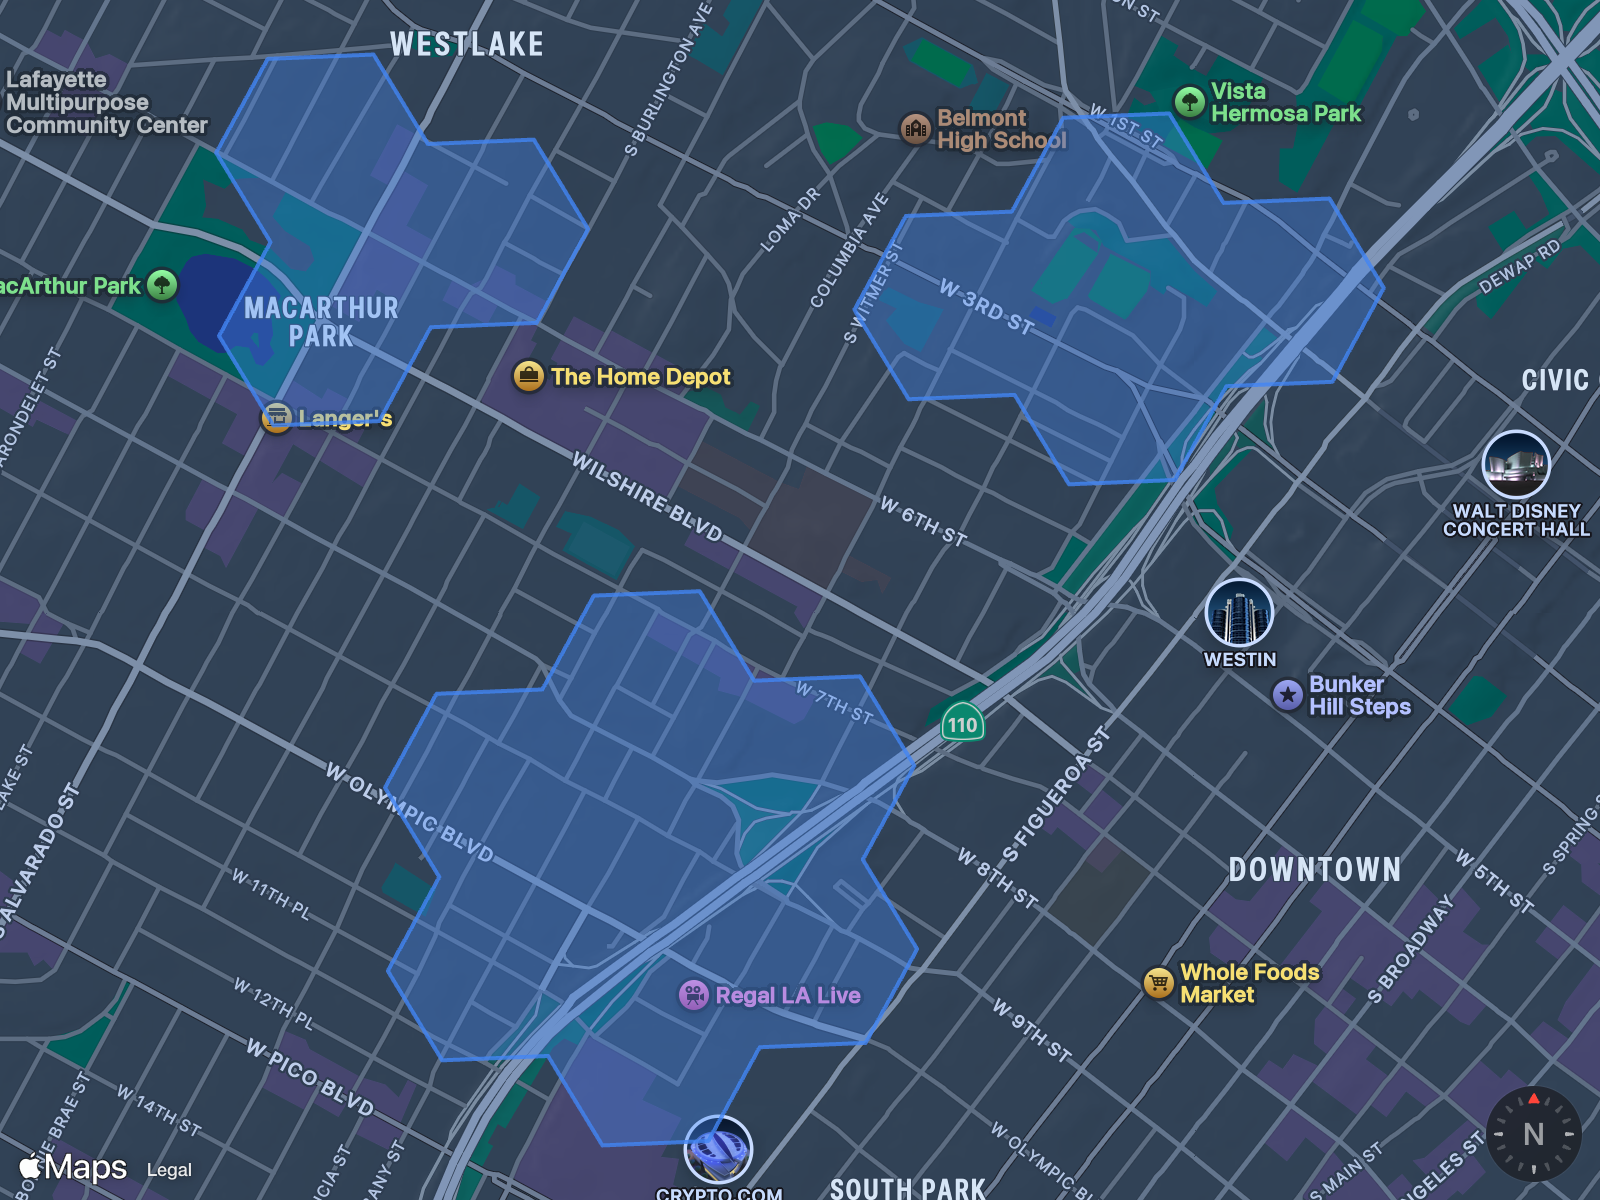
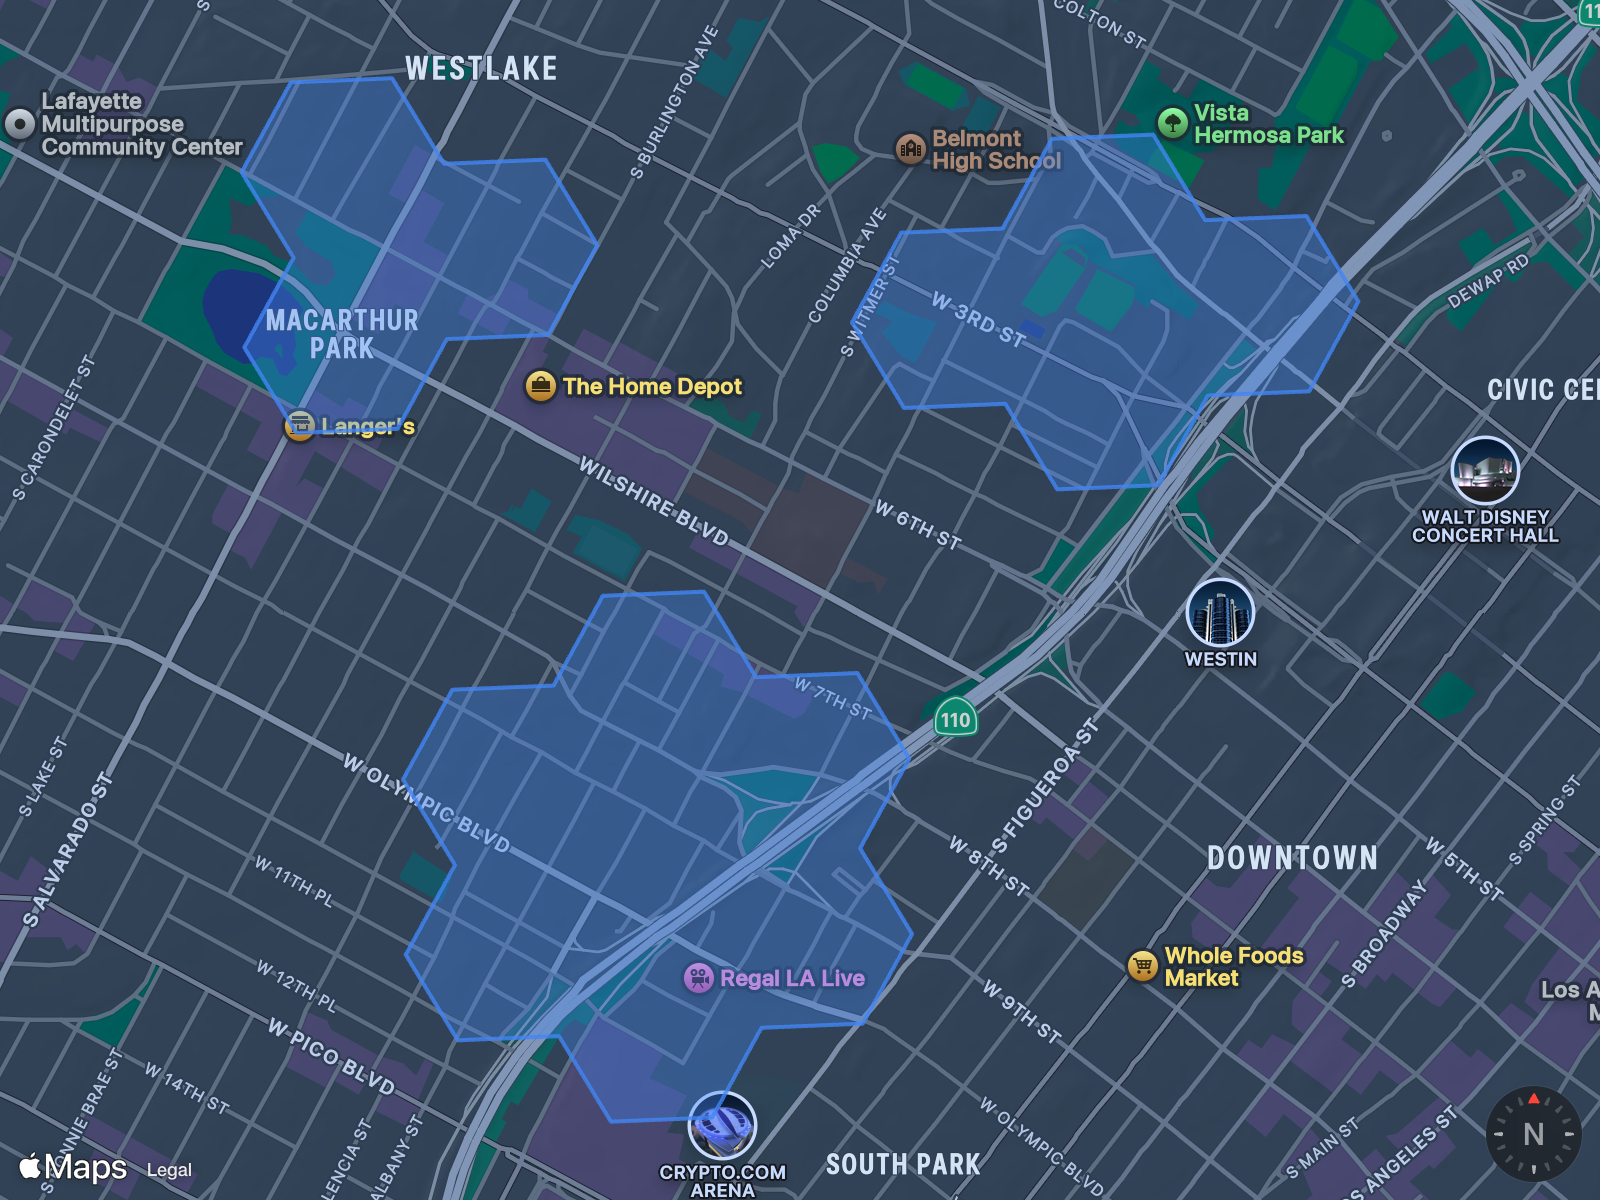
feat: google map dark mode

diff --git a/maps/output/index.html b/maps/output/index.html
@@ -259,7 +259,7 @@
                     <div class="metrics">
                         <div class="metric-row">
                             <span class="metric-label">⏱ Generation Time</span>
-                            <span class="metric-value">1451 ms</span>
+                            <span class="metric-value">1543 ms</span>
                         </div>
                         <div class="metric-row">
                             <span class="metric-label">💾 File Size</span>
@@ -267,7 +267,7 @@
                         </div>
                         <div class="metric-row">
                             <span class="metric-label">🧠 Memory Used</span>
-                            <span class="metric-value">6 MB</span>
+                            <span class="metric-value">9 MB</span>
                         </div>
                     </div>
                 </div>
@@ -284,15 +284,15 @@
                     <div class="metrics">
                         <div class="metric-row">
                             <span class="metric-label">⏱ Generation Time</span>
-                            <span class="metric-value">2501 ms</span>
+                            <span class="metric-value">2691 ms</span>
                         </div>
                         <div class="metric-row">
                             <span class="metric-label">💾 File Size</span>
-                            <span class="metric-value">1021 KB</span>
+                            <span class="metric-value">1034 KB</span>
                         </div>
                         <div class="metric-row">
                             <span class="metric-label">🧠 Memory Used</span>
-                            <span class="metric-value">11 MB</span>
+                            <span class="metric-value">16 MB</span>
                         </div>
                     </div>
                 </div>
@@ -336,24 +336,24 @@
                 <!-- Playwright -->
                 <div class="image-card">
                     <div class="image-header">
-                        ⚡ Playwright
-                        <span class="badge badge-info">Auto Zoom</span>
+                        ⚡ Google Maps
+                        <span class="badge badge-info">Dark Mode</span>
                     </div>
                     <div class="image-wrapper">
-                        <img src="Multi_Playwright_playwright.png" alt="Playwright Multi-Polygon">
+                        <img src="Multi_Playwright_playwright.png" alt="Google Maps Multi-Polygon (Dark Mode)">
                     </div>
                     <div class="metrics">
                         <div class="metric-row">
                             <span class="metric-label">⏱ Generation Time</span>
-                            <span class="metric-value">1435 ms</span>
+                            <span class="metric-value">1416 ms</span>
                         </div>
                         <div class="metric-row">
                             <span class="metric-label">💾 File Size</span>
-                            <span class="metric-value">1235 KB</span>
+                            <span class="metric-value">915 KB</span>
                         </div>
                         <div class="metric-row">
                             <span class="metric-label">🧠 Memory Used</span>
-                            <span class="metric-value">-34 MB</span>
+                            <span class="metric-value">10 MB</span>
                         </div>
                     </div>
                 </div>
@@ -370,15 +370,15 @@
                     <div class="metrics">
                         <div class="metric-row">
                             <span class="metric-label">⏱ Generation Time</span>
-                            <span class="metric-value">2491 ms</span>
+                            <span class="metric-value">2508 ms</span>
                         </div>
                         <div class="metric-row">
                             <span class="metric-label">💾 File Size</span>
-                            <span class="metric-value">1367 KB</span>
+                            <span class="metric-value">1412 KB</span>
                         </div>
                         <div class="metric-row">
                             <span class="metric-label">🧠 Memory Used</span>
-                            <span class="metric-value">14 MB</span>
+                            <span class="metric-value">-36 MB</span>
                         </div>
                     </div>
                 </div>
@@ -396,17 +396,17 @@
                 </div>
                 <div class="summary-card">
                     <h3>Average Generation Time</h3>
-                    <div class="value">⚡ 1443 ms</div>
+                    <div class="value">⚡ 1479 ms</div>
                     <div style="margin-top: 10px; font-size: 0.9rem;">Playwright</div>
                 </div>
                 <div class="summary-card">
                     <h3>Average Generation Time</h3>
-                    <div class="value">🍎 2496 ms</div>
+                    <div class="value">🍎 2599 ms</div>
                     <div style="margin-top: 10px; font-size: 0.9rem;">Apple Maps</div>
                 </div>
                 <div class="summary-card">
                     <h3>Speed Comparison</h3>
-                    <div class="value">72% faster</div>
+                    <div class="value">75% faster</div>
                     <div style="margin-top: 10px; font-size: 0.9rem;">vs Google Maps</div>
                 </div>
             </div>
